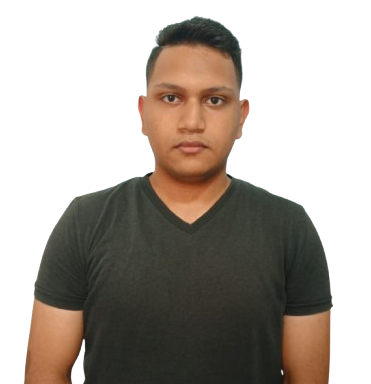
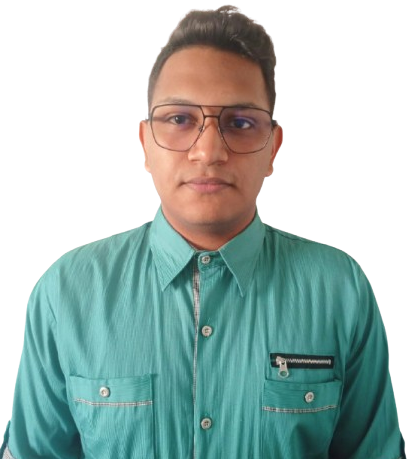
updated perfil photo

diff --git a/src/Page/proyectos/Proyectos.jsx b/src/Page/proyectos/Proyectos.jsx
@@ -94,7 +94,7 @@ function Proyectos() {
               <Cards
                 img={img.gestion_libreria}
                 title={'Gestión de Libreria'}
-                description='Sistema bibliotecario digital: usuarios solicitan libros, bibliotecarios gestionan préstamos y admins gestionan todo el sistema y ven un panel de control.'
+                description='Usuarios solicitan libros, bibliotecarios gestionan préstamos y administrador gestionan todo el sistema y ve un panel de control.'
                 github={true}
                 urlGithub='https://github.com/gab0-developer/biblioteca'
                 urlDemo='https://youtu.be/EfpxhcAUgXM'
